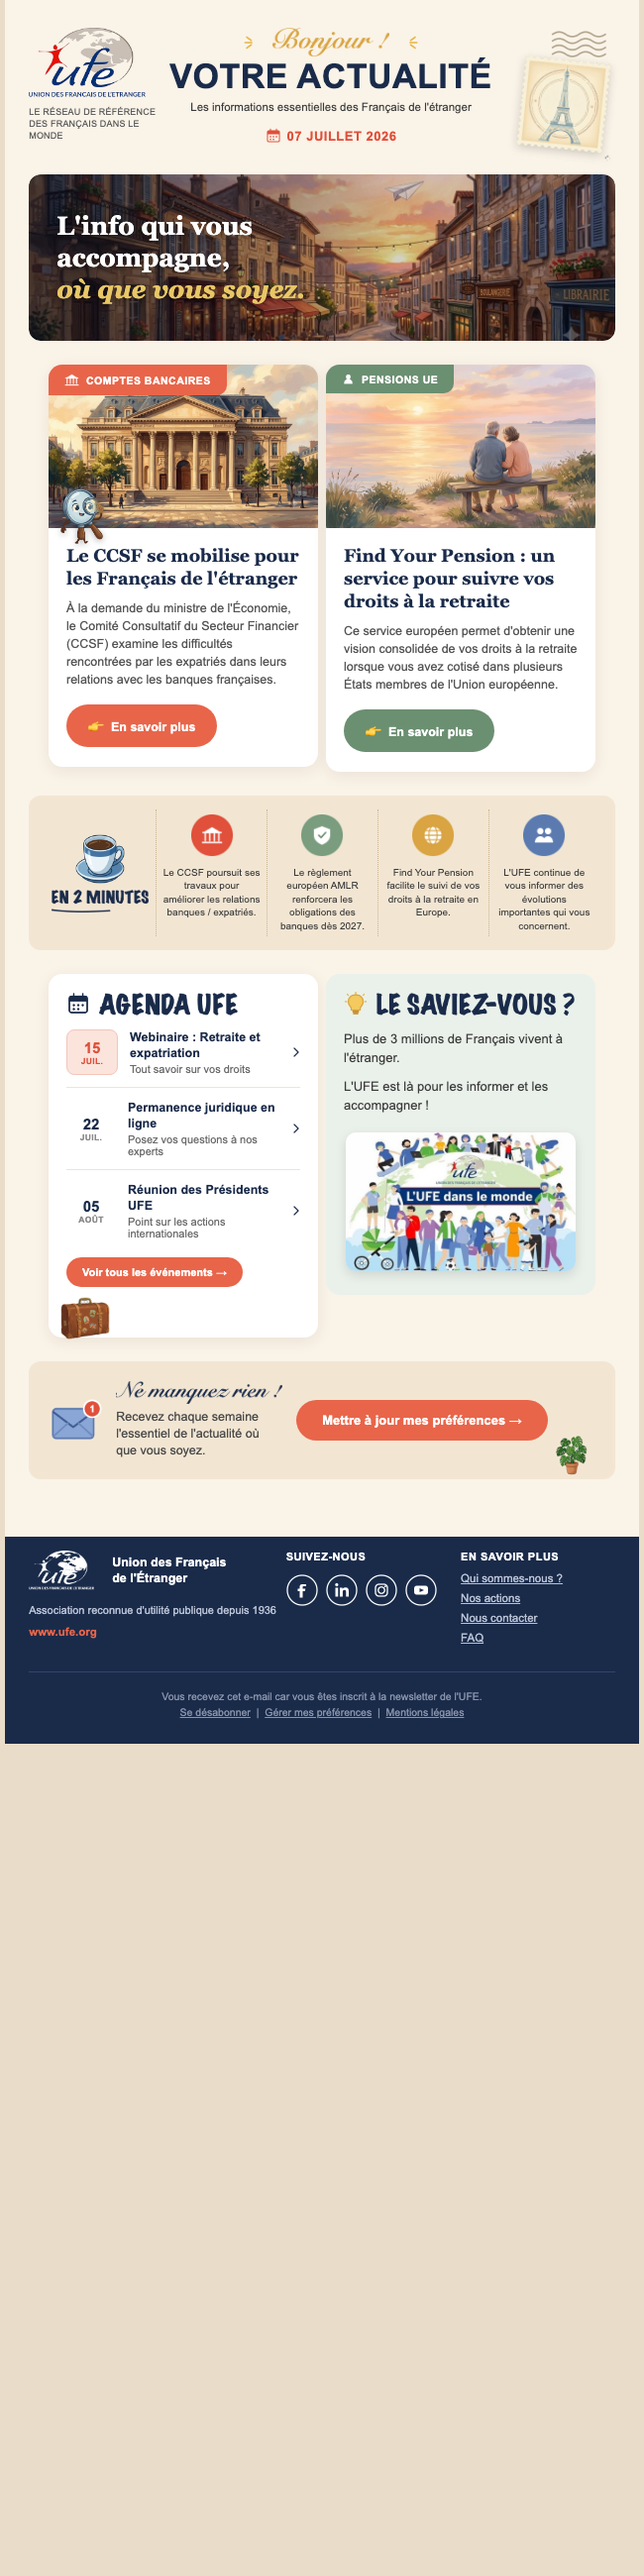
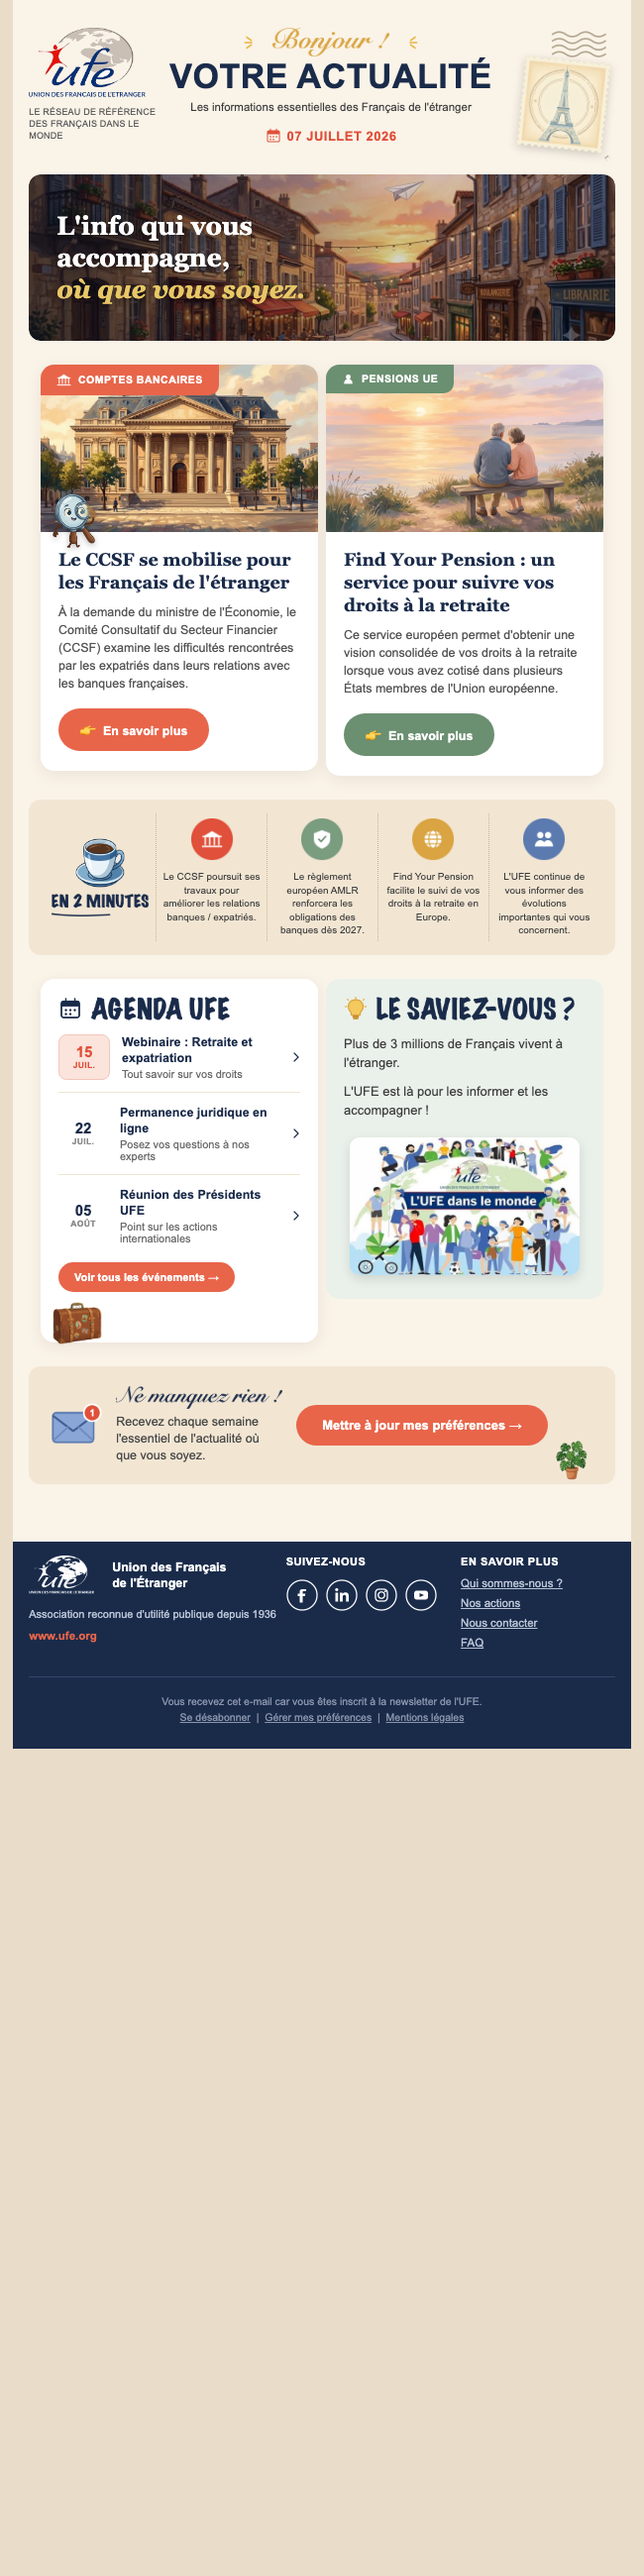
Widen content to 16px outer margins
- Reduce all section side padding from 24px to 16px so content fills more width
- Content width 552 -> 568; article and agenda cards widened 272 -> 280 (8px gap kept)
- Match hero overlay height to the wider banner

Changed region(s): [[0.0, 0.0, 1.0, 0.6854], [0.4615, 0.5296, 0.8308, 0.5608], [0.4308, 0.5919, 0.6769, 0.6231]]

diff --git a/newsletter.html b/newsletter.html
@@ -46,7 +46,7 @@
 
   <!-- ============ HEADER ============ -->
   <tr>
-    <td class="px-mobile" style="padding:28px 24px 18px 24px; background-color:#faf3e8;">
+    <td class="px-mobile" style="padding:28px 16px 18px 16px; background-color:#faf3e8;">
       <table role="presentation" width="100%" cellpadding="0" cellspacing="0" border="0">
         <tr>
           <!-- Logo -->
@@ -87,17 +87,17 @@
 
   <!-- ============ HERO BANNER ============ -->
   <tr>
-    <td class="px-mobile" style="padding:0 24px 24px 24px; background-color:#faf3e8;">
+    <td class="px-mobile" style="padding:0 16px 24px 16px; background-color:#faf3e8;">
       <table role="presentation" width="100%" cellpadding="0" cellspacing="0" border="0" style="border-radius:12px; overflow:hidden;">
         <tr>
           <td style="background-color:#1a2b4a; background-image:url('assets/hero-banner.jpg'); background-size:cover; background-position:center; border-radius:12px;">
             <!--[if mso]>
-            <v:rect xmlns:v="urn:schemas-microsoft-com:vml" fill="true" stroke="false" style="width:552px;height:230px;">
+            <v:rect xmlns:v="urn:schemas-microsoft-com:vml" fill="true" stroke="false" style="width:568px;height:237px;">
             <v:fill type="tile" src="assets/hero-banner.jpg" color="#1a2b4a" />
             <v:textbox inset="0,0,0,0">
             <![endif]-->
-            <img src="assets/hero-banner.jpg" width="552" alt="Une rue de village français au coucher du soleil" style="display:block; width:100%; max-width:552px; height:auto; opacity:0;">
-            <table role="presentation" width="100%" cellpadding="0" cellspacing="0" border="0" style="position:relative; margin-top:-230px;">
+            <img src="assets/hero-banner.jpg" width="568" alt="Une rue de village français au coucher du soleil" style="display:block; width:100%; max-width:568px; height:auto; opacity:0;">
+            <table role="presentation" width="100%" cellpadding="0" cellspacing="0" border="0" style="position:relative; margin-top:-237px;">
               <tr>
                 <td style="padding:36px 28px;">
                   <p class="hero-text" style="margin:0; font-family:Georgia, 'Times New Roman', serif; font-weight:bold; font-size:26px; line-height:32px; color:#ffffff; text-shadow:0 2px 6px rgba(0,0,0,.35);">
@@ -119,15 +119,15 @@
 
   <!-- ============ TWO CARD SECTION ============ -->
   <tr>
-    <td class="px-mobile" style="padding:0 24px 24px 24px; background-color:#faf3e8;">
-      <table role="presentation" class="full-width" width="552" align="center" cellpadding="0" cellspacing="0" border="0" style="width:552px; max-width:552px;">
+    <td class="px-mobile" style="padding:0 16px 24px 16px; background-color:#faf3e8;">
+      <table role="presentation" class="full-width" width="568" align="center" cellpadding="0" cellspacing="0" border="0" style="width:568px; max-width:568px;">
         <tr>
           <!-- CARD 1 : COMPTES BANCAIRES -->
-          <td class="stack-col" width="272" valign="top" style="width:272px;">
+          <td class="stack-col" width="280" valign="top" style="width:280px;">
             <table role="presentation" width="100%" cellpadding="0" cellspacing="0" border="0" style="background-color:#ffffff; border-radius:14px; box-shadow:0 4px 16px rgba(60,40,20,.08);">
               <tr>
                 <td style="padding:0; position:relative; line-height:0; font-size:0;">
-                  <img src="assets/bank-card.jpg" width="272" alt="Façade de la Banque de France à Paris" style="display:block; width:100%; max-width:272px; height:auto; border-radius:14px 14px 0 0;">
+                  <img src="assets/bank-card.jpg" width="280" alt="Façade de la Banque de France à Paris" style="display:block; width:100%; max-width:280px; height:auto; border-radius:14px 14px 0 0;">
                   <!--[if !mso]><!-->
                   <div style="position:absolute; top:0; left:0; z-index:2;">
                     <table role="presentation" cellpadding="0" cellspacing="0" border="0"><tr>
@@ -169,11 +169,11 @@
           <!-- center gap -->
           <td class="stack-gap" width="8" style="width:8px; font-size:1px; line-height:1px;">&nbsp;</td>
           <!-- CARD 2 : PENSIONS UE -->
-          <td class="stack-col" width="272" valign="top" style="width:272px;">
+          <td class="stack-col" width="280" valign="top" style="width:280px;">
             <table role="presentation" width="100%" cellpadding="0" cellspacing="0" border="0" style="background-color:#ffffff; border-radius:14px; box-shadow:0 4px 16px rgba(60,40,20,.08);">
               <tr>
                 <td style="padding:0; position:relative; line-height:0; font-size:0;">
-                  <img src="assets/pensions-card.jpg" width="272" alt="Un couple retraité regarde le coucher du soleil sur la mer" style="display:block; width:100%; max-width:272px; height:auto; border-radius:14px 14px 0 0;">
+                  <img src="assets/pensions-card.jpg" width="280" alt="Un couple retraité regarde le coucher du soleil sur la mer" style="display:block; width:100%; max-width:280px; height:auto; border-radius:14px 14px 0 0;">
                   <!--[if !mso]><!-->
                   <div style="position:absolute; top:0; left:0; z-index:2;">
                     <table role="presentation" cellpadding="0" cellspacing="0" border="0"><tr>
@@ -216,7 +216,7 @@
 
   <!-- ============ EN 2 MINUTES STRIP ============ -->
   <tr>
-    <td class="px-mobile" style="padding:0 24px 24px 24px; background-color:#faf3e8;">
+    <td class="px-mobile" style="padding:0 16px 24px 16px; background-color:#faf3e8;">
       <table role="presentation" width="100%" cellpadding="0" cellspacing="0" border="0" style="background-color:#f2e6d3; border-radius:12px;">
         <tr>
           <td style="padding:14px 16px 14px 16px;">
@@ -259,10 +259,10 @@
 
   <!-- ============ AGENDA + LE SAVIEZ-VOUS ============ -->
   <tr>
-    <td class="px-mobile" style="padding:0 24px 24px 24px; background-color:#faf3e8;">
-      <table role="presentation" class="full-width" width="552" align="center" cellpadding="0" cellspacing="0" border="0" style="width:552px; max-width:552px;">
+    <td class="px-mobile" style="padding:0 16px 24px 16px; background-color:#faf3e8;">
+      <table role="presentation" class="full-width" width="568" align="center" cellpadding="0" cellspacing="0" border="0" style="width:568px; max-width:568px;">
         <tr>
-          <td class="stack-col" width="272" valign="top" style="width:272px;">
+          <td class="stack-col" width="280" valign="top" style="width:280px;">
           <table role="presentation" width="100%" cellpadding="0" cellspacing="0" border="0" style="background-color:#ffffff; border-radius:14px; box-shadow:0 4px 16px rgba(60,40,20,.08);">
         <tr>
           <td style="padding:18px 18px 20px 18px;">
@@ -336,7 +336,7 @@
       </table>
           </td>
           <td class="stack-gap" width="8" style="width:8px; font-size:1px; line-height:1px;">&nbsp;</td>
-          <td class="stack-col" width="272" valign="top" style="width:272px;">
+          <td class="stack-col" width="280" valign="top" style="width:280px;">
           <table role="presentation" width="100%" cellpadding="0" cellspacing="0" border="0" style="background-color:#eaf1ea; border-radius:14px;">
         <tr>
           <td style="padding:18px 18px 24px 18px;">
@@ -359,7 +359,7 @@
 
   <!-- ============ CTA BANNER ============ -->
   <tr>
-    <td class="px-mobile" style="padding:0 24px 28px 24px; background-color:#faf3e8;">
+    <td class="px-mobile" style="padding:0 16px 28px 16px; background-color:#faf3e8;">
       <table role="presentation" width="100%" cellpadding="0" cellspacing="0" border="0" style="background-color:#f2e6d3; border-radius:12px;">
         <tr>
           <td style="padding:20px 20px;">
@@ -411,7 +411,7 @@
     </td>
   </tr>
   <tr>
-    <td style="background-color:#1a2b4a; padding:14px 24px 24px 24px;">
+    <td style="background-color:#1a2b4a; padding:14px 16px 24px 16px;">
       <table role="presentation" width="100%" cellpadding="0" cellspacing="0" border="0">
         <tr>
           <!--[if mso]><td width="250" valign="top"><![endif]-->
